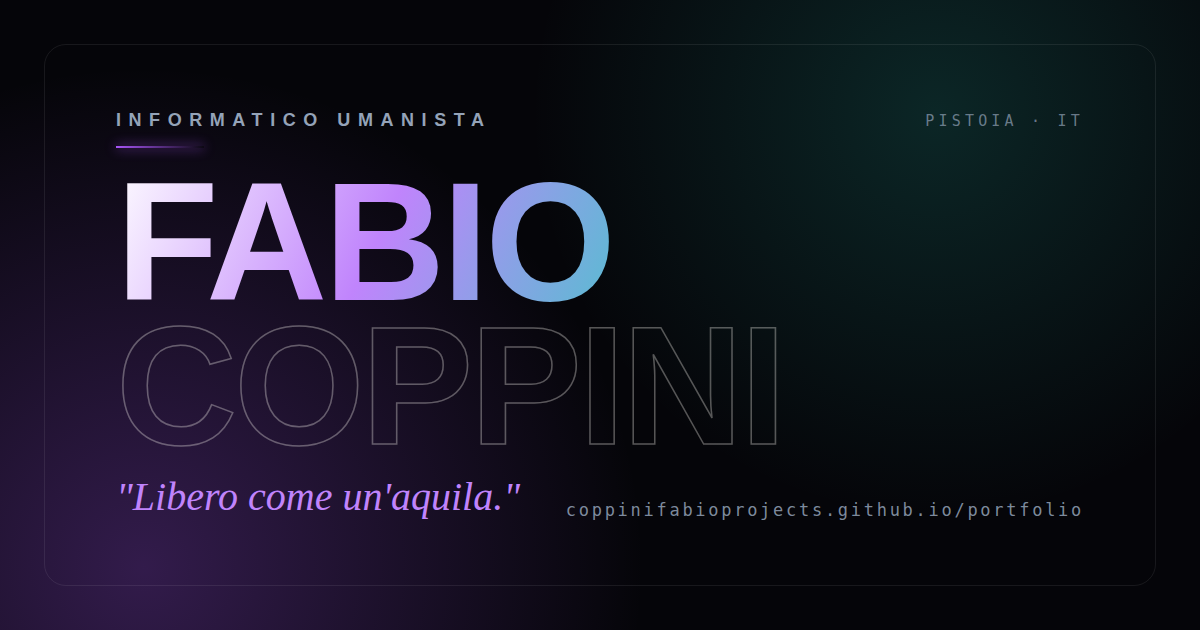
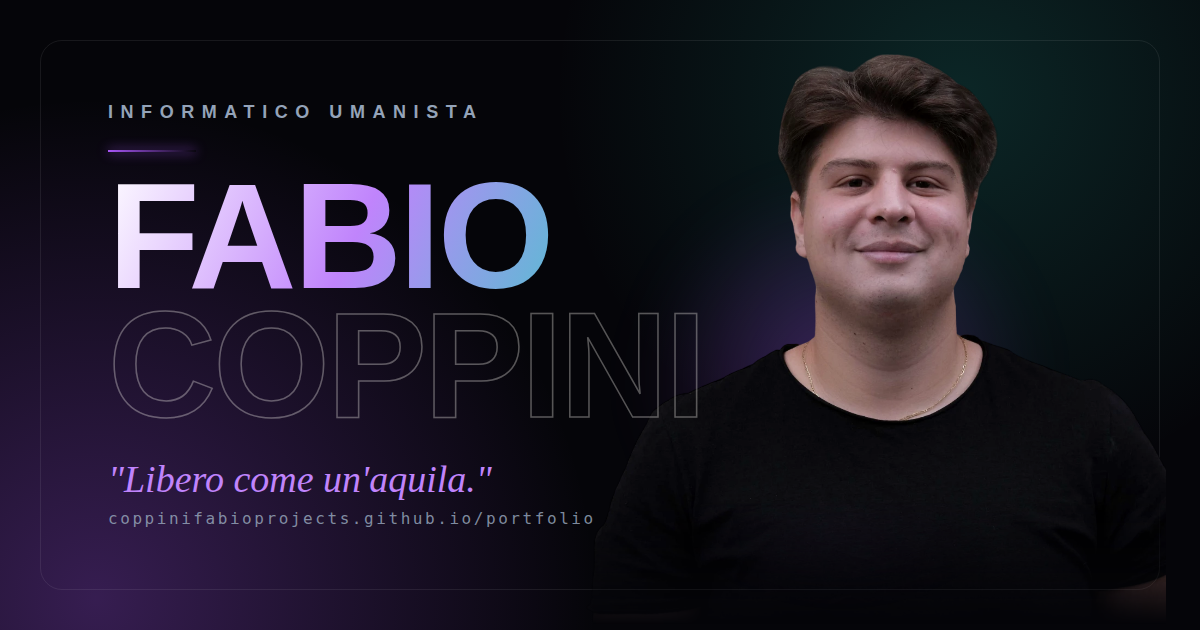
Ritratto nel social + hero, scroll-spy nav, meta PWA iOS
- OG image ridisegnata con il ritratto (sfuma nel fondo scuro + glow viola)
- Ritratto trasparente ottimizzato (fabio-portrait.webp, 59KB) nella hero, solo desktop, con mask di sfumatura
- Scroll-spy nella navigazione: evidenzia la sezione corrente + aria-current
- Meta PWA per iOS (apple-mobile-web-app-*, mobile-web-app-capable)

Claude-Session: https://claude.ai/code/session_01XxJWdcD9hAoJaMuoc52Hcr

diff --git a/src/components/Nav.jsx b/src/components/Nav.jsx
@@ -6,12 +6,32 @@ import { nav, profile } from "../data/content";
 export default function Nav() {
   const [scrolled, setScrolled] = useState(false);
   const [open, setOpen] = useState(false);
+  const [active, setActive] = useState("");
 
   useEffect(() => {
     const onScroll = () => setScrolled(window.scrollY > 40);
     onScroll();
     window.addEventListener("scroll", onScroll, { passive: true });
     return () => window.removeEventListener("scroll", onScroll);
+  }, []);
+
+  // Scroll-spy: evidenzia la sezione attualmente visibile
+  useEffect(() => {
+    const sections = nav
+      .map((n) => document.getElementById(n.id))
+      .filter(Boolean);
+    if (!sections.length) return;
+    const observer = new IntersectionObserver(
+      (entries) => {
+        const visible = entries
+          .filter((e) => e.isIntersecting)
+          .sort((a, b) => b.intersectionRatio - a.intersectionRatio)[0];
+        if (visible) setActive(visible.target.id);
+      },
+      { rootMargin: "-45% 0px -50% 0px", threshold: [0, 0.25, 0.5, 1] }
+    );
+    sections.forEach((s) => observer.observe(s));
+    return () => observer.disconnect();
   }, []);
 
   return (
@@ -34,17 +54,21 @@ export default function Nav() {
         </a>
 
         <ul className="hidden md:flex items-center gap-1">
-          {nav.map((n) => (
-            <li key={n.id}>
-              <a
-                href={`#${n.id}`}
-                className="px-3 py-2 text-sm text-mist hover:text-white transition-colors relative group"
-              >
-                {n.label}
-                <span className="absolute left-3 right-3 -bottom-0.5 h-px bg-purple scale-x-0 group-hover:scale-x-100 transition-transform origin-left" />
-              </a>
-            </li>
-          ))}
+          {nav.map((n) => {
+            const isActive = active === n.id;
+            return (
+              <li key={n.id}>
+                <a
+                  href={`#${n.id}`}
+                  aria-current={isActive ? "true" : undefined}
+                  className={`px-3 py-2 text-sm transition-colors relative group ${isActive ? "text-white" : "text-mist hover:text-white"}`}
+                >
+                  {n.label}
+                  <span className={`absolute left-3 right-3 -bottom-0.5 h-px bg-purple transition-transform origin-left ${isActive ? "scale-x-100" : "scale-x-0 group-hover:scale-x-100"}`} />
+                </a>
+              </li>
+            );
+          })}
         </ul>
 
         <a
@@ -71,16 +95,20 @@ export default function Nav() {
             exit={{ opacity: 0, y: -10 }}
             className="md:hidden absolute top-20 left-4 right-4 glass rounded-2xl p-4 flex flex-col gap-1"
           >
-            {nav.map((n) => (
-              <a
-                key={n.id}
-                href={`#${n.id}`}
-                onClick={() => setOpen(false)}
-                className="px-4 py-3 rounded-xl text-mist hover:text-white hover:bg-white/5 transition-colors"
-              >
-                {n.label}
-              </a>
-            ))}
+            {nav.map((n) => {
+              const isActive = active === n.id;
+              return (
+                <a
+                  key={n.id}
+                  href={`#${n.id}`}
+                  onClick={() => setOpen(false)}
+                  aria-current={isActive ? "true" : undefined}
+                  className={`px-4 py-3 rounded-xl transition-colors ${isActive ? "text-white bg-white/5" : "text-mist hover:text-white hover:bg-white/5"}`}
+                >
+                  {n.label}
+                </a>
+              );
+            })}
             <a
               href="#contact"
               onClick={() => setOpen(false)}

diff --git a/src/components/Hero.jsx b/src/components/Hero.jsx
@@ -24,7 +24,25 @@ export default function Hero() {
           src="/portfolio/garuda.png"
           alt=""
           aria-hidden="true"
-          className="w-[92vw] md:w-[720px] max-w-none object-contain opacity-[0.14] animate-pulse-slow drop-shadow-[0_0_60px_rgba(168,85,247,0.35)]"
+          className="w-[92vw] md:w-[620px] max-w-none object-contain opacity-[0.12] animate-pulse-slow drop-shadow-[0_0_60px_rgba(168,85,247,0.35)]"
+        />
+      </motion.div>
+
+      {/* Ritratto — sfuma nel fondo scuro, solo desktop */}
+      <motion.div
+        style={{ y: garudaY }}
+        className="hidden lg:block absolute right-0 bottom-0 top-0 w-[46%] pointer-events-none z-0 select-none"
+      >
+        <div className="absolute right-[6%] bottom-[16%] w-[26rem] h-[26rem] rounded-full bg-purple/25 blur-3xl" />
+        <img
+          src="/portfolio/fabio-portrait.webp"
+          alt=""
+          aria-hidden="true"
+          className="absolute right-0 bottom-0 h-[86vh] w-auto object-contain object-bottom opacity-90
+            [filter:grayscale(0.25)_contrast(1.02)]
+            [-webkit-mask-image:linear-gradient(to_bottom,#000_74%,transparent_98%),linear-gradient(to_left,#000_60%,transparent_100%)]
+            [-webkit-mask-composite:source-in] [mask-composite:intersect]
+            [mask-image:linear-gradient(to_bottom,#000_74%,transparent_98%),linear-gradient(to_left,#000_60%,transparent_100%)]"
         />
       </motion.div>
 

diff --git a/index.html b/index.html
@@ -8,6 +8,10 @@
     <meta name="author" content="Fabio Coppini" />
     <meta name="keywords" content="Fabio Coppini, Informatico Umanista, Sviluppatore, React, Supabase, Robotica Educativa, Linux, Pistoia, Portfolio" />
     <meta name="theme-color" content="#050509" />
+    <meta name="mobile-web-app-capable" content="yes" />
+    <meta name="apple-mobile-web-app-capable" content="yes" />
+    <meta name="apple-mobile-web-app-status-bar-style" content="black-translucent" />
+    <meta name="apple-mobile-web-app-title" content="F. Coppini" />
     <link rel="canonical" href="https://coppinifabioprojects.github.io/portfolio/" />
 
     <!-- Icons & PWA -->
